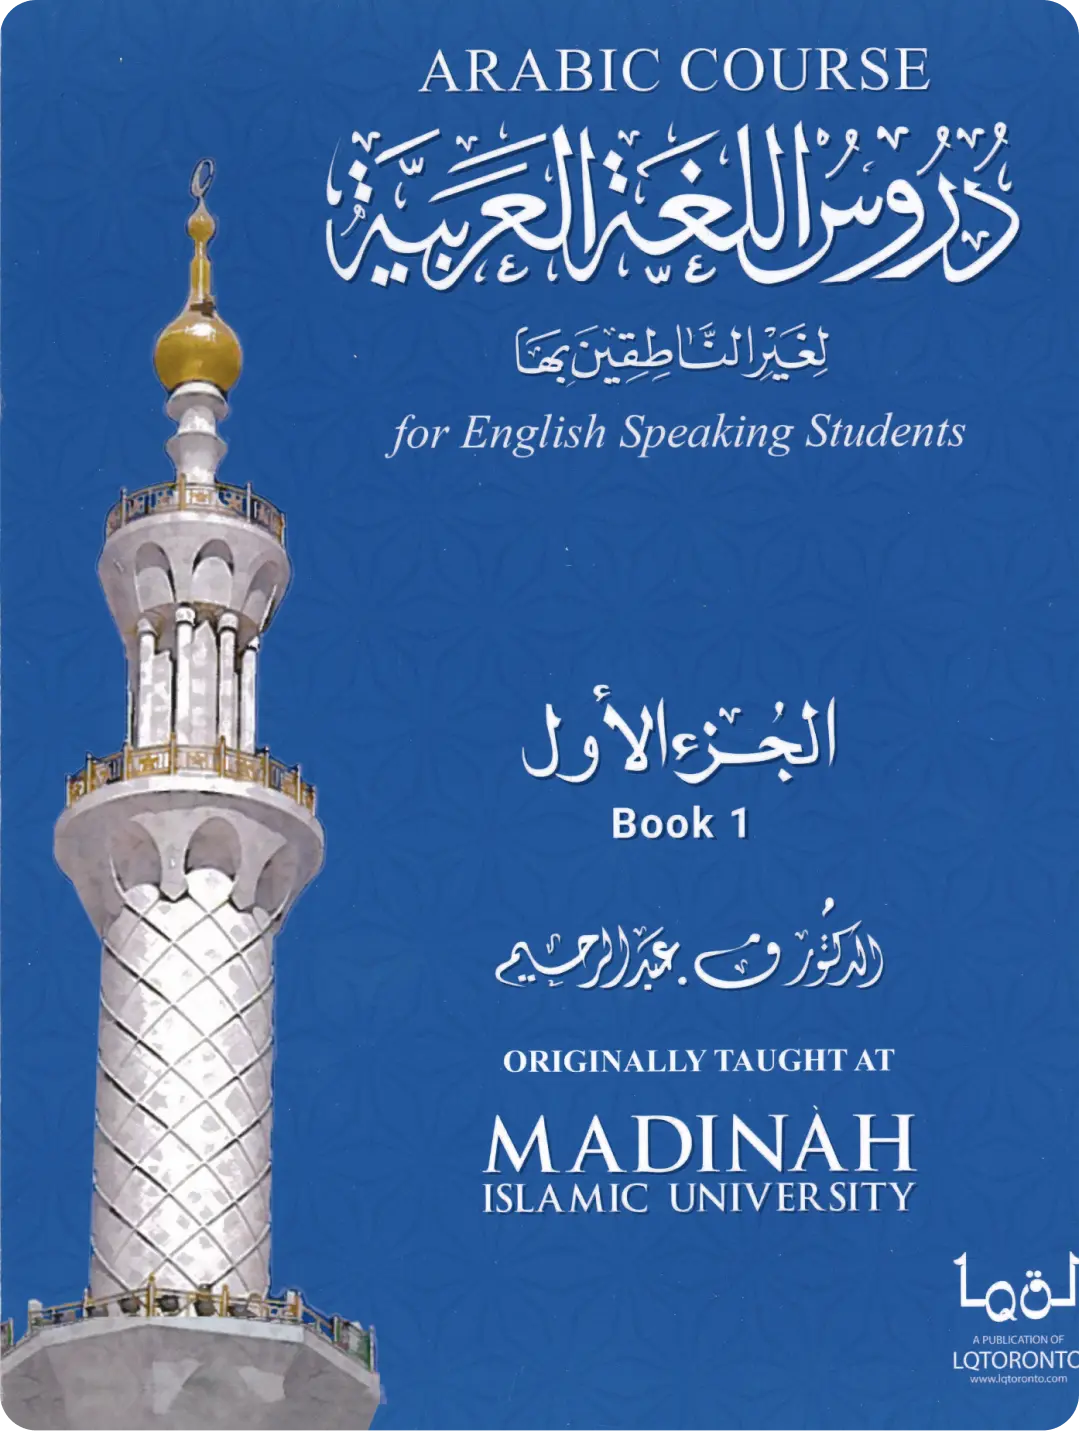
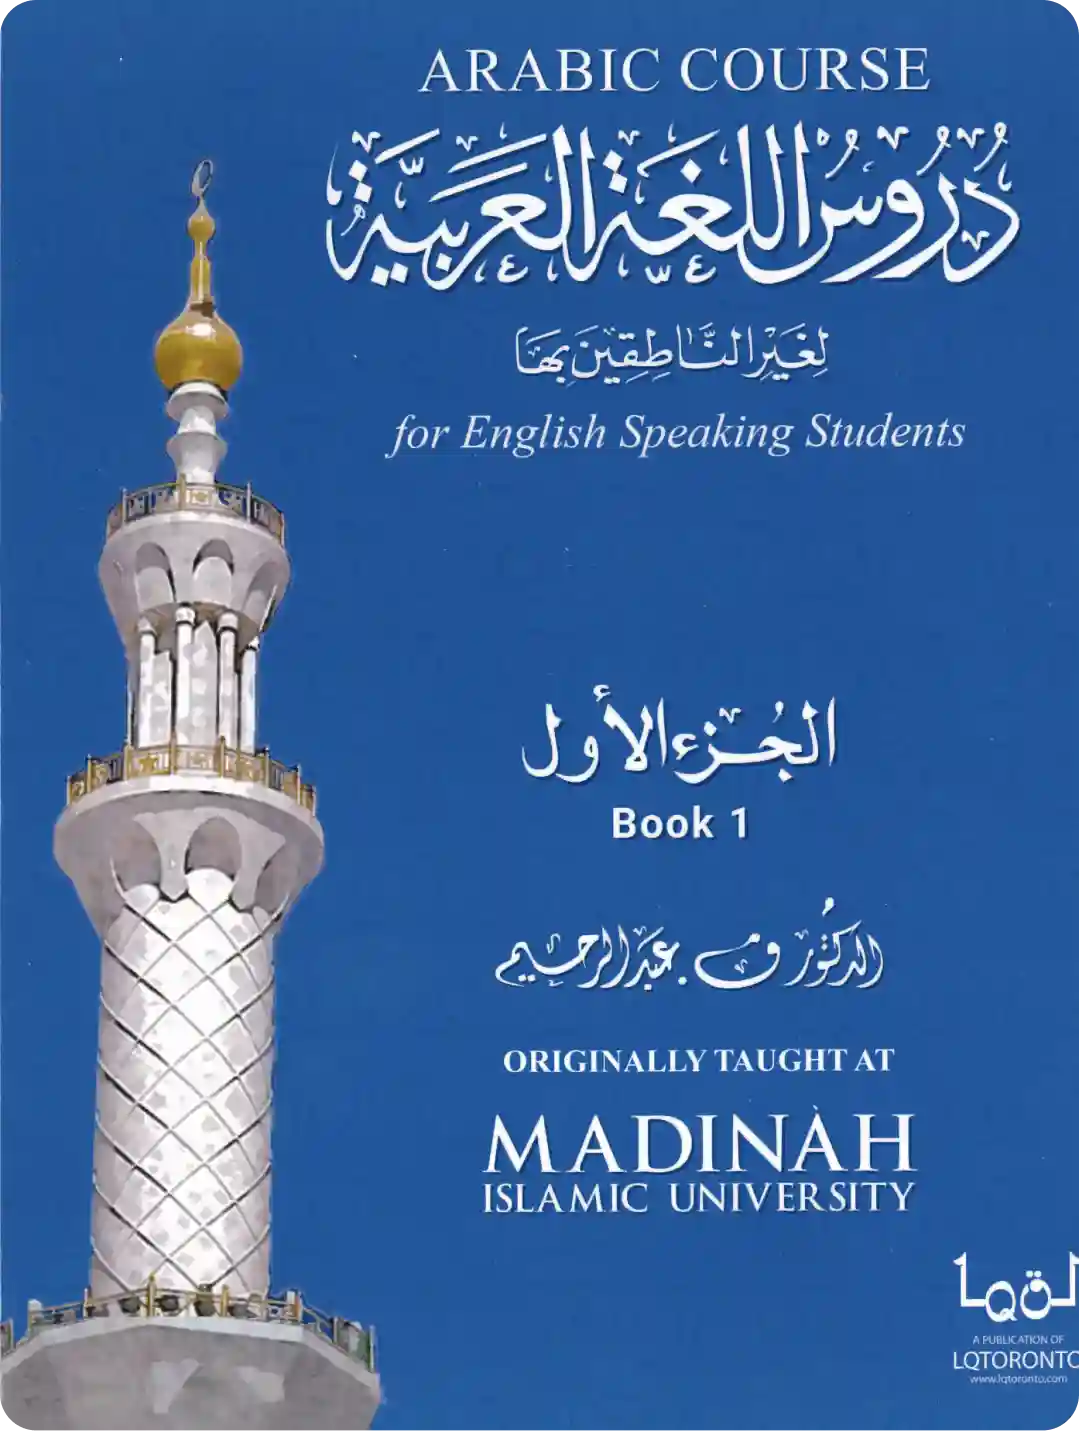
Fix tabs bounding box wrong positioning in re-render. Optimize images for books

diff --git a/src/components/Tabs/index.tsx b/src/components/Tabs/index.tsx
@@ -18,8 +18,12 @@ function Tabs<T extends string>({ value, onChange, tabs }: TabsProps<T>) {
 	const [activeTab, setActiveTab] = useState<HTMLButtonElement | null>(null)
 	const [isFromNull, setIsFromNull] = useState(true)
 	const tabsRef = useRef<{ [key in T]: HTMLButtonElement }>({} as { [key in T]: HTMLButtonElement })
+	const navRef = useRef<HTMLDivElement>(null)
 
 	const location = activeTab?.getBoundingClientRect()
+	const navSize = navRef.current?.getBoundingClientRect()
+
+	console.log(navSize)
 
 	const handleClick = (e: React.MouseEvent<HTMLButtonElement>) => {
 		setActiveTab(e.currentTarget)
@@ -42,13 +46,13 @@ function Tabs<T extends string>({ value, onChange, tabs }: TabsProps<T>) {
 	const activeTabValue = activeTab?.id.replace(chaq, '')
 
 	return (
-		<nav className="flex items-center select-none">
+		<nav ref={navRef} className="flex items-center select-none | relative">
 			<div
 				style={{
 					width: location?.width,
 					height: location?.height,
-					top: location?.top,
-					left: location?.left,
+					top: (location?.top || 0) - (navSize?.top || 0),
+					left: (location?.left || 0) - (navSize?.left || 0),
 					transitionDuration,
 				}}
 				className={clsx('boundary bg-white/10 rounded-md absolute top-0 left-0')}

diff --git a/pages/[course]/[book]/index.tsx b/pages/[course]/[book]/index.tsx
@@ -20,8 +20,6 @@ export async function getStaticProps(context: any) {
 		throw new Error()
 	}
 
-	console.log(process.env.NODE_ENV)
-
 	const res = await fetch(
 		`${process.env.NODE_ENV === 'development' ? process.env.URL : 'https://shoshiy-yasiin-uz.vercel.app'}/${book.json}`,
 		{
